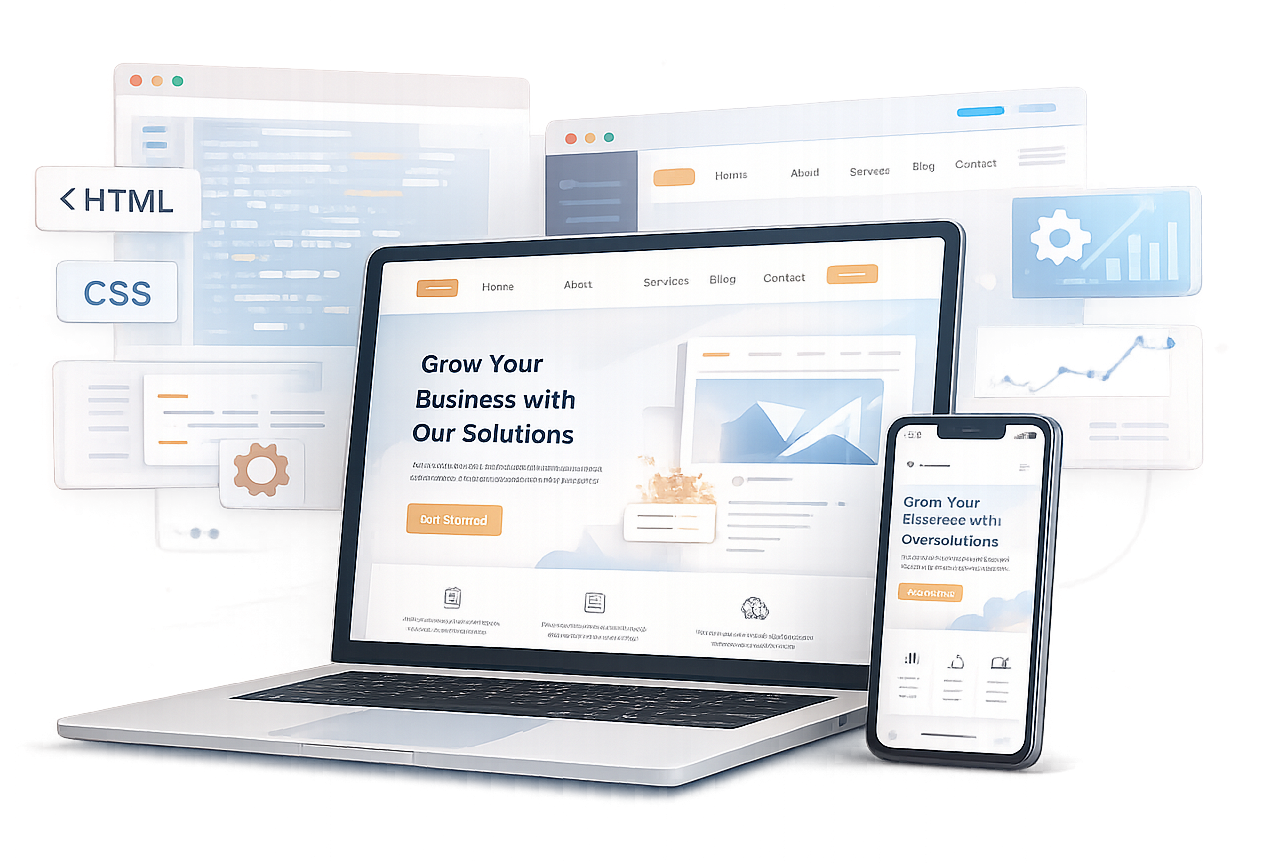
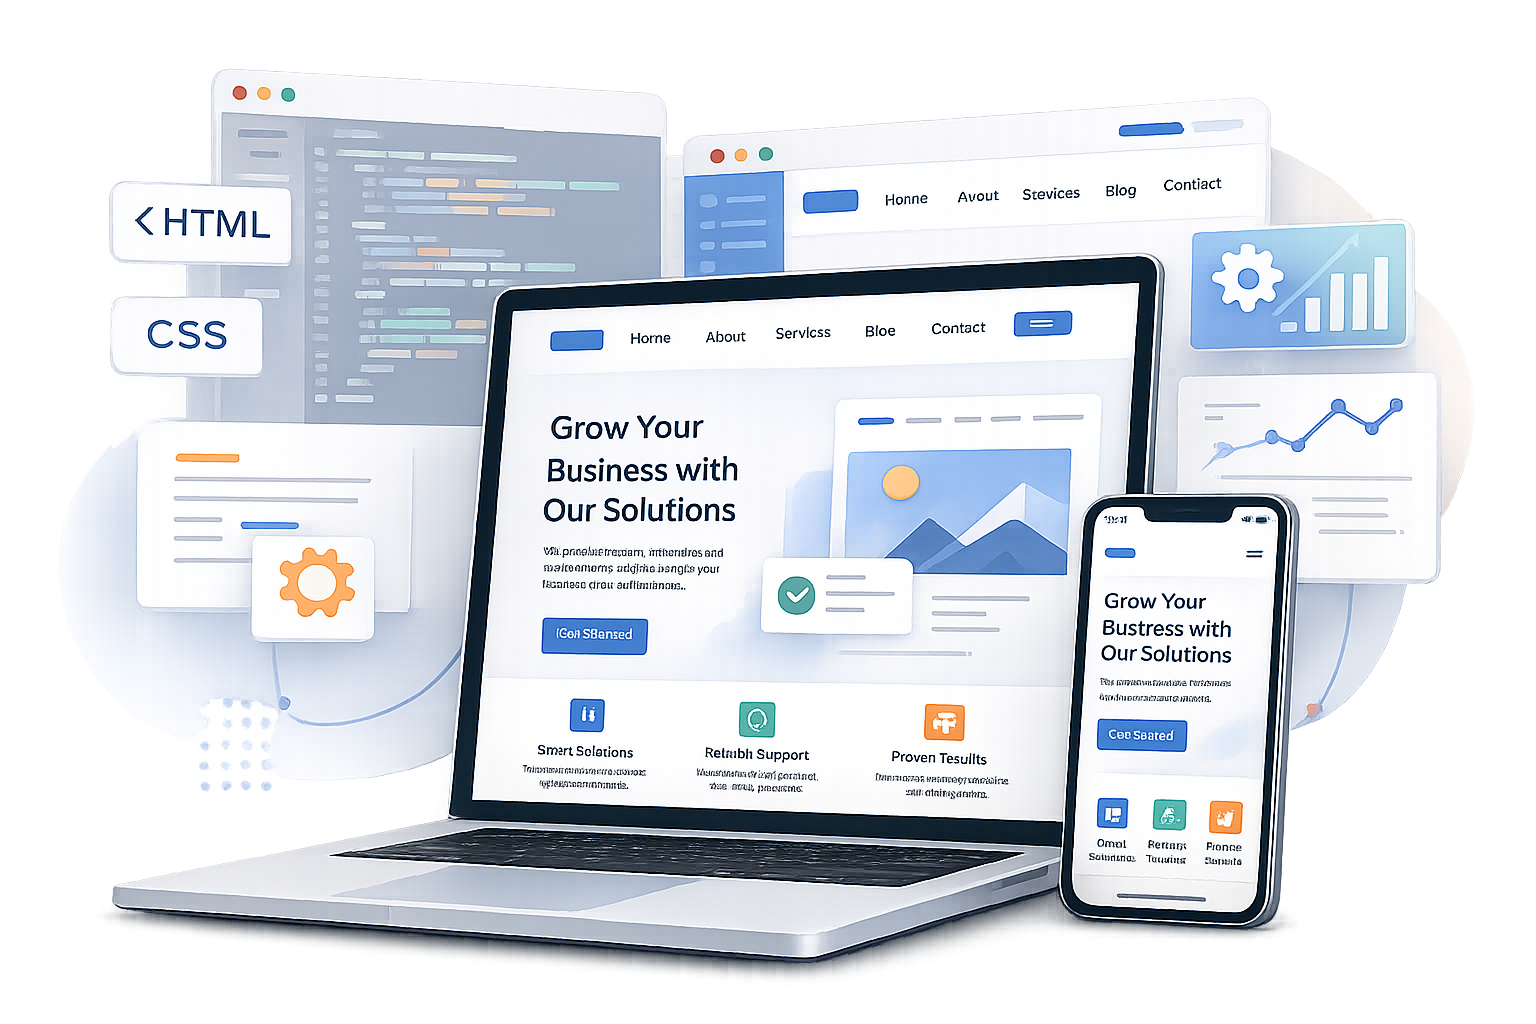
style: remove unused quote section and enhance service image responsiveness

diff --git a/style.css b/style.css
@@ -1466,10 +1466,6 @@ a.nav-logo:hover .site-logo {
 }
 
 /* ─── QUOTE / CONTACT FORM ───────────────────────────── */
-.quote-section {
-  background: var(--surface);
-}
-
 .quote-wrap {
   display: grid;
   grid-template-columns: 1fr 1.2fr;
@@ -1740,8 +1736,13 @@ a.nav-logo:hover .site-logo {
   background: transparent;
   border: none;
   border-radius: 0;
-  height: auto;
   overflow: visible;
+  /* Flex container so the image is always centred in the column */
+  display: flex;
+  align-items: center;
+  justify-content: center;
+  /* Give the column a defined height so the image has room to expand */
+  min-height: 440px;
 }
 
 .service-visual:hover {
@@ -1771,21 +1772,48 @@ a.nav-logo:hover .site-logo {
   align-items: center;
 }
 
+/* ── Generic service illustration base ───────────────── */
 .service-image {
+  display: block;
+  /* Fill the column width; natural height is preserved via aspect ratio */
   width: 100%;
-  max-width: 600px;
-  height: 400px;
-  /* same height for all */
-  display: flex;
-  align-items: center;
-  justify-content: center;
+  height: auto;
+  /* Never let it overflow on very wide screens */
+  max-width: 560px;
+  margin: 0 auto;
+  /* Slight upscale to absorb transparent padding common in illustrations */
+  transform: scale(1.12);
+  transform-origin: center center;
 }
 
-.service-image img {
-  width: 100%;
-  height: 100%;
-  object-fit: contain;
+/* ── Per-image fine-tuning ───────────────────────────── */
+/* web-development.png  1536×1024 — standard ratio, needs modest boost */
+.service-image[src*="web-development"] {
+  transform: scale(1.18);
 }
+
+/* ecommerce-development.png  1536×1024 — similar, slight boost */
+.service-image[src*="ecommerce-development"] {
+  transform: scale(1.10);
+}
+
+/* online-delivery.png  1536×1024 — matching boost */
+.service-image[src*="online-delivery"] {
+  transform: scale(1.20);
+}
+
+/* software-development.png  1127×827 — slightly taller ratio,
+   push a little harder so it visually matches the others */
+.service-image[src*="software-development"] {
+  transform: scale(1.18);
+}
+
+/* app-development.png  1408×1024 — tallest ratio, moderate boost */
+.service-image[src*="app-development"] {
+  transform: scale(1.08);
+}
+
+
 
 /* ─── PROCESS 7 STEPS ────────────────────────────────── */
 .process-steps-7 {